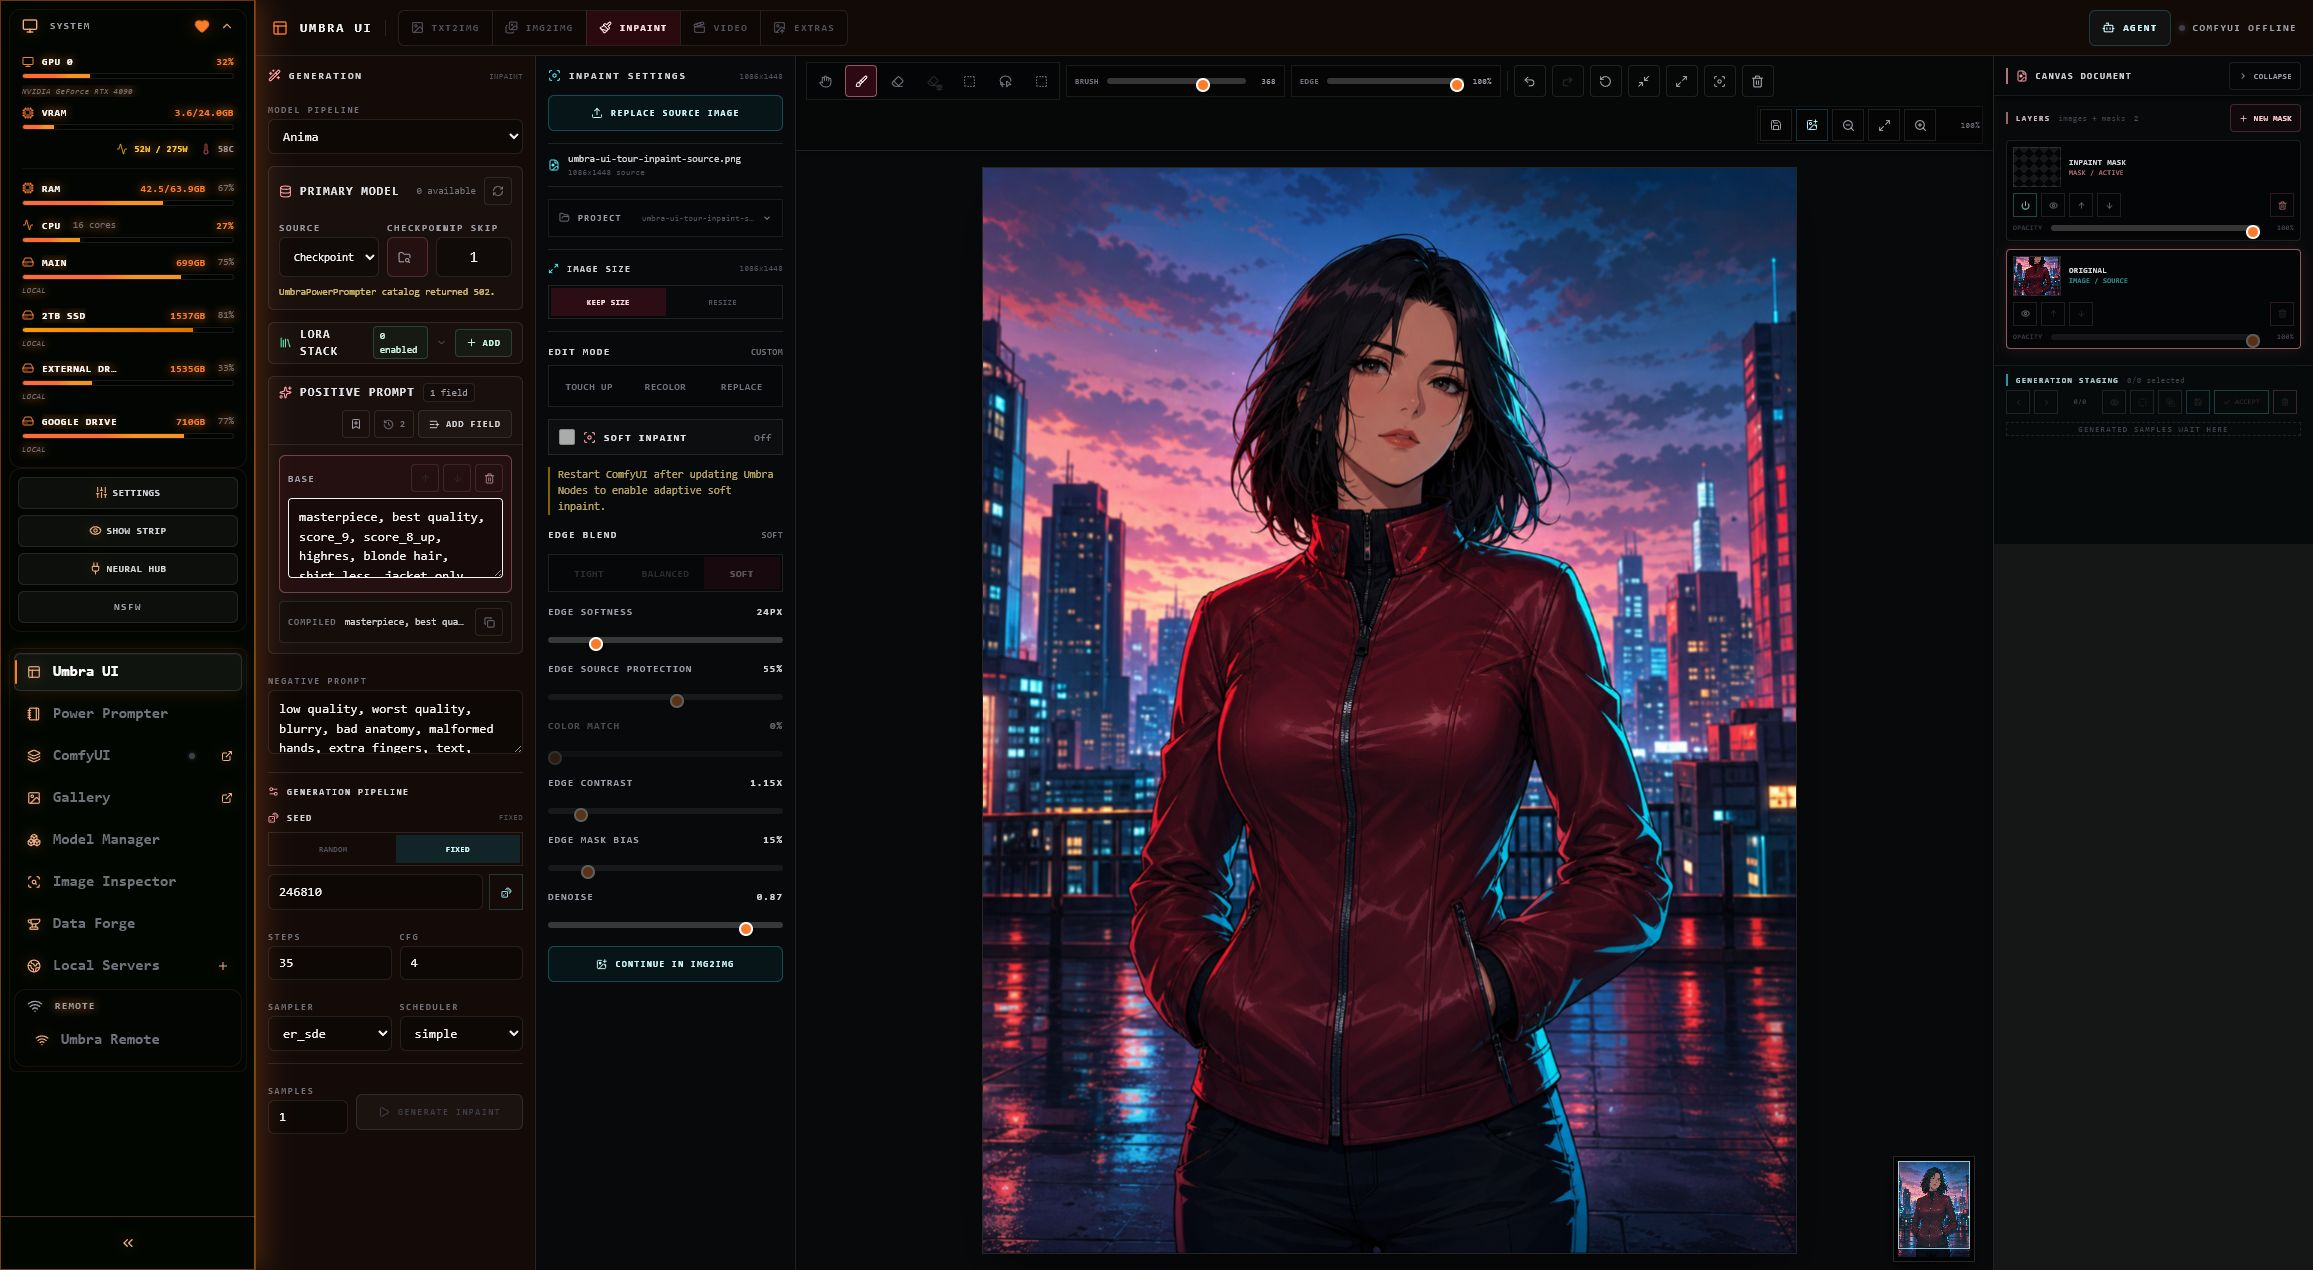
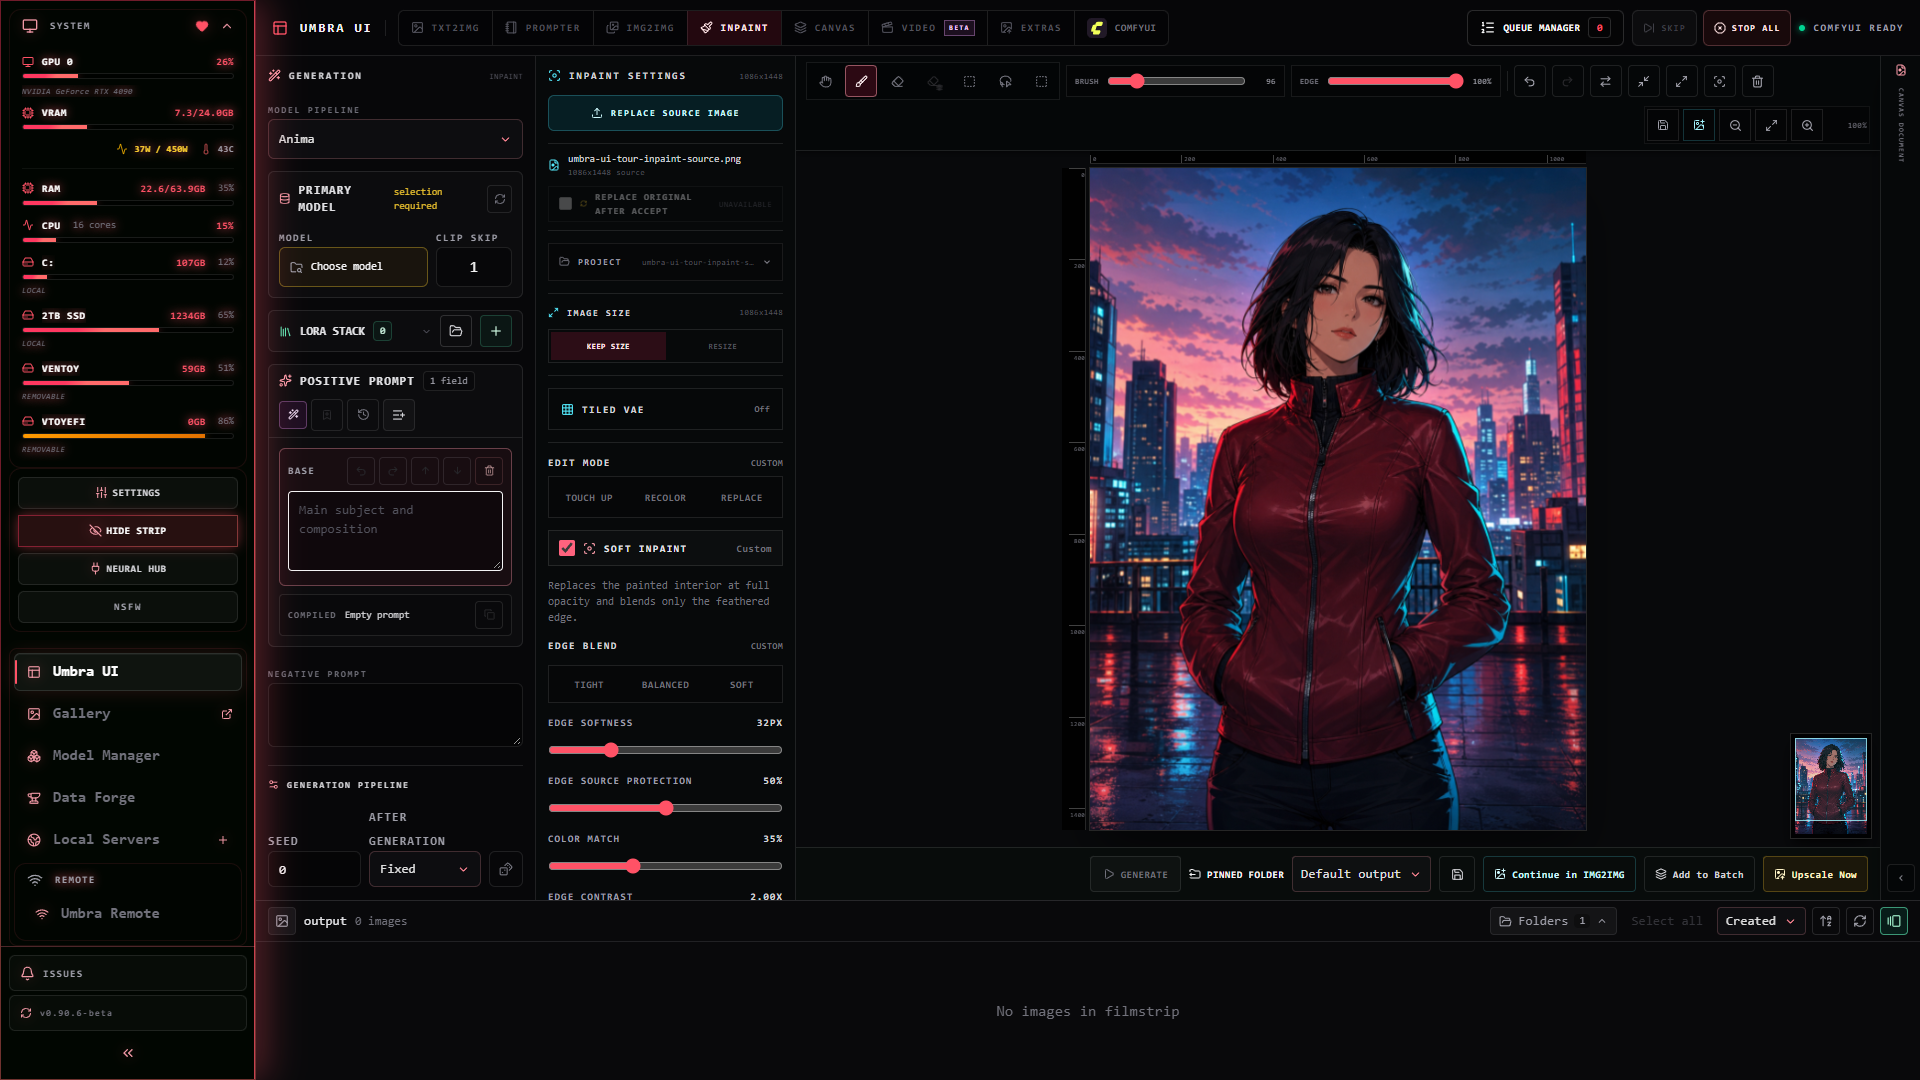
fix(setup): verify media readiness and expose prompter resources

diff --git a/setup/onboarding.js b/setup/onboarding.js
@@ -7,6 +7,13 @@ const ONBOARDING_COPY = {
   de: ['Geführte Einrichtung', 'Umbra Studio Schritt für Schritt einrichten. Der Fortschritt wird gespeichert; abgeschlossene Schritte können erneut geprüft werden.', 'Sprache', 'ComfyUI', 'Training (optional)', 'Zusatz-Nodes', 'Hilfsmodelle', 'Generierungsmodelle', 'Bereit', 'Zuerst die Sprache auswählen und speichern.', 'Die Generierungs-Engine und ihre verwaltete Python-Umgebung installieren.', 'AI Toolkit wird nur zum Trainieren von Modellen benötigt und kann später installiert werden.', 'Die Nodes für Umbra-Workflows installieren.', 'Hilfsmodelle für die gewünschten Workflows auswählen.', 'Modellfamilie auswählen und Dateien sowie Lizenzen prüfen. Manche Familien benötigen einen zusätzlichen Checkpoint.', 'Installierte Dateien und Nodes prüfen. Dabei wird kein Bild generiert.', 'Zurück', 'Weiter', 'ComfyUI installieren', 'AI Toolkit installieren', 'Training überspringen', 'Zusatz-Nodes installieren', 'Ausgewählte Dateien installieren', 'Installierte Dateien prüfen', 'Bereitschaft prüfen', 'Umbra Studio öffnen', 'Abgeschlossen', 'Ausstehend', 'In Arbeit…', 'Ausgewählter Download', 'Hugging-Face-Token (optional, nur diese Sitzung)', 'Vor dem Download die Lizenzen zugangsbeschränkter Modelle auf Hugging Face akzeptieren.', 'Manueller Download', '{file} im Ordner {folder} innerhalb des Umbra-Studio-Ordners ablegen. Setup lädt dieses Modell nicht herunter.', 'Vor dem Download jede Modelllizenz prüfen; Umbras Lizenz gewährt keine Nutzungsrechte an Modellen.', 'Umbra ist für die gewählte Konfiguration bereit.', 'Diese Punkte müssen noch erledigt werden:', 'Status aktualisieren', 'Optionale Modelle können später unter Models ergänzt werden.', 'Vor dem Fortfahren den aktuellen Schritt prüfen.'],
 };
 const onboardingIds = ['language', 'comfyui', 'training', 'nodes', 'support', 'generation', 'ready'];
+const onboardingMediaCopy = {
+  en: ['Media tools', 'FFmpeg and ffprobe are ready.', 'FFmpeg or ffprobe is unavailable. Install the verified portable tools to finish setup.', 'Install / repair media tools', 'The download is verified against its published checksum before installation.'],
+  ja: ['メディアツール', 'FFmpeg と ffprobe の準備が完了しました。', 'FFmpeg または ffprobe が利用できません。検証済みのポータブルツールをインストールして設定を完了してください。', 'メディアツールをインストール／修復', 'インストール前に公開チェックサムでダウンロードを検証します。'],
+  'zh-CN': ['媒体工具', 'FFmpeg 和 ffprobe 已就绪。', 'FFmpeg 或 ffprobe 不可用。请安装经过验证的便携工具以完成设置。', '安装／修复媒体工具', '安装前会根据公布的校验和验证下载文件。'],
+  ko: ['미디어 도구', 'FFmpeg 및 ffprobe가 준비되었습니다.', 'FFmpeg 또는 ffprobe를 사용할 수 없습니다. 검증된 휴대용 도구를 설치하여 설정을 완료하세요.', '미디어 도구 설치 / 복구', '설치 전에 공개된 체크섬으로 다운로드를 검증합니다.'],
+  de: ['Medientools', 'FFmpeg und ffprobe sind bereit.', 'FFmpeg oder ffprobe ist nicht verfügbar. Die geprüften portablen Tools installieren, um die Einrichtung abzuschließen.', 'Medientools installieren / reparieren', 'Der Download wird vor der Installation anhand der veröffentlichten Prüfsumme geprüft.'],
+};
 for (const [locale, text] of Object.entries({ en: 'Installation verified. Launch managed ComfyUI from Umbra Studio.', ja: 'インストールを検証しました。Umbra Studio から管理対象の ComfyUI を起動してください。', 'zh-CN': '安装已验证。请从 Umbra Studio 启动托管的 ComfyUI。', ko: '설치가 검증되었습니다. Umbra Studio에서 관리되는 ComfyUI를 실행하세요.', de: 'Installation geprüft. Das verwaltete ComfyUI über Umbra Studio starten.' })) ONBOARDING_COPY[locale][35] = text;
 const onboardingDownloadCopy = {
   en: 'Download or import a compatible generation checkpoint in Umbra Studio’s Model Manager, then reopen Setup. Checkpoint folder: Tools/ComfyUI/models/checkpoints/. Separate diffusion models: Tools/ComfyUI/models/diffusion_models/.',
@@ -153,11 +160,17 @@ function renderOnboarding() {
   if (stage === 3) content.append(onboardingButton(onboardingText(21), () => runOnboardingJob('/api/tools/action', { tool: 'comfyui', action: 'nodes_only' })));
   if (stage === 4 || stage === 5) onboardingPackSelection(stage === 4 ? 'support' : 'requirements', content);
   if (stage === 6) {
+    const media = onboardingData.media;
+    const mediaCopy = onboardingMediaCopy[document.getElementById('language')?.value] || onboardingMediaCopy.en;
+    content.append(onboardingElement('h4', mediaCopy[0]), onboardingElement('p', mediaCopy[media?.ready ? 1 : 2]));
+    for (const tool of media?.tools || []) content.append(onboardingElement('p', `${tool.tool}: ${tool.ready ? tool.version : onboardingText(27)}`));
+    if (!media?.ready && media?.supported) content.append(onboardingElement('p', `${setupFormat('repairDownload', { size: Math.round(media.downloadBytes / 1024 / 1024) })} (${media.license}). ${mediaCopy[4]}`), onboardingButton(mediaCopy[3], () => runOnboardingJob('/api/dependencies/action', { kind: 'media', target: 'FFmpeg' })));
     content.append(onboardingButton(onboardingText(24), () => runOnboardingJob('/api/onboarding/verify', {})));
     if (onboardingData.ready) content.append(onboardingElement('p', onboardingText(35)), onboardingButton(onboardingText(25), () => document.getElementById('launch').click()));
     else if (onboardingData.issues?.length) {
       const issues = onboardingElement('ul');
       onboardingData.stages.slice(0, 6).forEach((entry, index) => { if (!entry.complete) issues.append(onboardingElement('li', onboardingText(index + 9))); });
+      if (onboardingData.issueCodes?.includes('media')) issues.append(onboardingElement('li', mediaCopy[2]));
       content.append(onboardingElement('p', onboardingText(36)), issues);
     }
   }

diff --git a/frontend/src/components/power-prompter/PowerPrompterWorkflowResources.tsx b/frontend/src/components/power-prompter/PowerPrompterWorkflowResources.tsx
@@ -1,0 +1,73 @@
+import React from 'react';
+import { UmbraSelect } from '@/components/ui/UmbraSelect';
+import { useStore } from '@/store/useStore';
+import type { UmbraUiPipelineResourceReadinessItem } from '../../../../shared/umbra-ui/pipelineTypes';
+
+const providers: Record<string, [string, string]> = {
+  checkpoint: ['CheckpointLoaderSimple', 'ckpt_name'],
+  diffusion_model: ['UNETLoader', 'unet_name'],
+  unet: ['UNETLoader', 'unet_name'],
+  gguf: ['UnetLoaderGGUF', 'unet_name'],
+  text_encoder: ['CLIPLoader', 'clip_name'],
+  vae: ['VAELoader', 'vae_name'],
+  clip_vision: ['CLIPVisionLoader', 'clip_name'],
+  controlnet: ['ControlNetLoader', 'control_net_name'],
+  upscale_model: ['UpscaleModelLoader', 'model_name'],
+};
+
+export function PowerPrompterWorkflowResources({ items, values, onChange }: {
+  items: UmbraUiPipelineResourceReadinessItem[];
+  values: Record<string, string>;
+  onChange: (resourceId: string, value: string) => void;
+}) {
+  const [catalogs, setCatalogs] = React.useState<Record<string, string[]>>({});
+  const connection = useStore(state => state.connections.comfyui);
+  const [refreshKey, refreshCatalogs] = React.useReducer(value => value + 1, 0);
+  const resources = items.filter(item => item.source === 'graph' && item.id !== 'final-upscale.default-model');
+  const kinds = [...new Set(resources.map(item => item.kind))].sort().join(',');
+  React.useEffect(() => {
+    const controller = new AbortController();
+    setCatalogs({});
+    void Promise.all(kinds.split(',').filter(Boolean).map(async kind => {
+      const provider = providers[kind];
+      if (!provider) return [kind, []] as const;
+      const [node, input] = provider;
+      try {
+        const response = await fetch(`/object_info/${encodeURIComponent(node)}`, { signal: controller.signal });
+        if (!response.ok) return [kind, []] as const;
+        const payload = await response.json();
+        const choices = payload?.[node]?.input?.required?.[input]?.[0];
+        return [kind, Array.isArray(choices) ? choices.filter((value): value is string => typeof value === 'string') : []] as const;
+      } catch { return [kind, []] as const; }
+    })).then(entries => { if (!controller.signal.aborted) setCatalogs(Object.fromEntries(entries)); });
+    return () => controller.abort();
+  }, [kinds, connection, refreshKey]);
+  if (!resources.length) return null;
+  return (
+    <section className="space-y-2 rounded-md border border-violet-300/20 bg-violet-500/[0.035] p-2">
+      <div className="flex items-center justify-between gap-2">
+        <h3 className="text-[10px] font-black uppercase tracking-widest text-violet-200">Workflow Resources</h3>
+        <button type="button" onClick={refreshCatalogs} className="text-[10px] text-zinc-400 hover:text-zinc-200">Refresh</button>
+      </div>
+      {resources.map(item => {
+        const value = values[item.id] || item.value || '';
+        const choices = [...new Set([value, item.value, ...(catalogs[item.kind] || [])].filter(Boolean))];
+        return (
+          <label key={item.id} className="block min-w-0 space-y-1 text-[10px] text-zinc-400">
+            <span>{item.label}</span>
+            <UmbraSelect
+              value={value}
+              options={choices.map(name => ({ value: name, label: name, i18nSkip: true }))}
+              onValueChange={next => onChange(item.id, next)}
+              ariaLabel={item.label}
+              menuTitle={item.label}
+              placeholder="Choose model"
+              size="sm"
+              required={item.required}
+            />
+          </label>
+        );
+      })}
+    </section>
+  );
+}

diff --git a/setup/Onboarding.ts b/setup/Onboarding.ts
@@ -199,15 +199,17 @@ export async function inspectOnboarding(source: string, root: string) {
   const generationComplete = state.profiles.length === 1 && generationProfiles.has(state.profiles[0]) && generation.complete && !!checkpoint && validCheckpoint(root, checkpoint);
   const trainingComplete = state.training === 'skip' || state.training === 'install' && existsSync(join(root, 'Tools', 'AI-Toolkit', 'run.py'))
     && existsSync(join(root, 'Tools', 'AI-Toolkit', 'venv', process.platform === 'win32' ? 'Scripts/python.exe' : 'bin/python'));
-  const fingerprint = createHash('sha256').update(JSON.stringify({ state: { languageSaved: state.languageSaved, training: state.training, profiles: state.profiles, supportProfiles: state.supportProfiles, checkpoint },
+  const media = dependencies.mediaTools;
+  const fingerprint = createHash('sha256').update(JSON.stringify({ media: media.tools.map(tool => ({ tool: tool.tool, source: tool.source, ready: tool.ready, version: tool.version })), state: { languageSaved: state.languageSaved, training: state.training, profiles: state.profiles, supportProfiles: state.supportProfiles, checkpoint },
     core: [core.installedCommit, core.version, core.frontendVersion, core.pythonDependencies.verified], nodesFingerprint, support, generation, checkpointIdentity: checkpoint && identity(join(root, 'Tools', 'ComfyUI', 'models', checkpoint)), checkpointVerification: state.checkpointVerification })).digest('hex');
   const checks = [state.languageSaved, comfyComplete, trainingComplete, nodesComplete, support.complete, generationComplete];
-  const ready = checks.every(Boolean) && checkpointIntegrity && state.verificationFingerprint === fingerprint;
+  const ready = checks.every(Boolean) && media.ready && checkpointIntegrity && state.verificationFingerprint === fingerprint;
   const details = ['Save your preferred language.', 'Install and verify managed ComfyUI and its Python environment.', 'Install AI Toolkit for training, or skip it.', 'Install and verify custom nodes.', 'Install or verify selected support models.', 'Select a model family and a compatible generation checkpoint.', 'Verify the selected installation.'];
   const stages = ['language', 'comfyui', 'training', 'nodes', 'support', 'generation', 'ready'].map((id, index) => ({ id, complete: index === 6 ? ready : checks[index], detail: details[index] }));
   const issues = stages.slice(0, 6).filter(stage => !stage.complete).map(stage => stage.detail);
   if (state.profiles.length && !checkpoint) issues.push('Add a compatible generation checkpoint in Umbra Model Manager; prerequisites alone do not include one.');
   const issueCodes = stages.slice(0, 6).filter(stage => !stage.complete).map(stage => stage.id);
-  return { success: true, state, stages, issueCodes, selectedCheckpoint: checkpoint, checkpointIntegrity, catalog: { ...catalog, checkpoints, generationProfiles: [...generationProfiles] }, ready, issues, fingerprint, nodesFingerprint,
+  if (!media.ready) { issueCodes.push('media'); issues.push('Install or repair FFmpeg and ffprobe.'); }
+  return { success: true, state, stages, issueCodes, media, selectedCheckpoint: checkpoint, checkpointIntegrity, catalog: { ...catalog, checkpoints, generationProfiles: [...generationProfiles] }, ready, issues, fingerprint, nodesFingerprint,
     qualification: 'Installation files and model integrity verified. Launch managed ComfyUI from Umbra; GPU execution and image quality have not been tested.' };
 }

diff --git a/frontend/src/components/layout/PowerPrompterCardChainEditor.tsx b/frontend/src/components/layout/PowerPrompterCardChainEditor.tsx
@@ -1,3 +1,4 @@
+import { PowerPrompterWorkflowResources } from '@/components/power-prompter/PowerPrompterWorkflowResources';
 import { UmbraSelectControl } from '@/components/ui/UmbraSelectControl';
 import { ANIMA38_TEXT_ENCODER_DEVICE_RESOURCE, normalizeAnima38TextEncoderDevice } from '../../../../shared/umbra-ui/animaTextEncoderDevice';
 
@@ -9369,7 +9370,12 @@ export const PowerPrompterCardChainEditor = React.memo(forwardRef<PowerPrompterC
                     Swap Dimensions: {generation.swapDimensions ? 'On' : 'Off'}
                   </button>
 
-                  <div className="rounded-md border border-white/15 bg-black/25 p-2 space-y-2">
+                  <PowerPrompterWorkflowResources
+                items={selectedPipeline?.readiness?.runtime.resources.items || []}
+                values={generation.workflowResources || {}}
+                onChange={(resourceId, value) => updateGeneration({ workflowResources: { ...generation.workflowResources, [resourceId]: value } })}
+              />
+              <div className="rounded-md border border-white/15 bg-black/25 p-2 space-y-2">
                     <div className="flex items-center justify-between gap-2">
                       <div className="min-w-0">
                         <div className="text-[10px] font-black uppercase tracking-widest text-cyan-200">

diff --git a/CHANGELOG.md b/CHANGELOG.md
@@ -27,8 +27,9 @@
   optional managed downloads. Existing Python helper venvs are preserved.
   Windows ONNX helpers require the Microsoft Visual C++ 2019 or newer runtime.
 - If video thumbnails or metadata still report missing tools, open
-  `UmbraSetup.bat` on Windows or `./umbra-setup.sh` on Linux, select **Tools**,
-  then **Install / repair media tools**. Legacy `UmbraUpdater.bat` or `./umbra-updater.sh` shortcuts open
+  `UmbraSetup.bat` on Windows or `./umbra-setup.sh` on Linux, use **Guided setup >
+  Ready > Install / repair media tools**, or select the same action under **Tools**.
+  Guided Setup checks both executables before reporting Ready. Legacy `UmbraUpdater.bat` or `./umbra-updater.sh` shortcuts open
   the same app; switch to **Tools** for dependency repairs.
 - The optional repair downloads about **184 MiB on Windows** or **143 MiB on Linux**
   only when the existing executables need repair; normal installs use the bundled pair.
@@ -82,6 +83,13 @@
 - Let slower media repair downloads continue while receiving data. Bound header
   and stalled-response waits separately, with a fresh retry after failure.
 - Missing executable errors point directly to the Setup and Updater repair.
+
+### Power Prompter Resources
+
+- Power Prompter now exposes the selected pipeline's text encoder, VAE and other
+  workflow resources alongside its existing model and processing controls.
+  Resource choices are saved with the card document and queue settings. The
+  catalogs refresh when ComfyUI connects and can also be refreshed manually.
 
 ### Lightweight Python Dependencies
 
